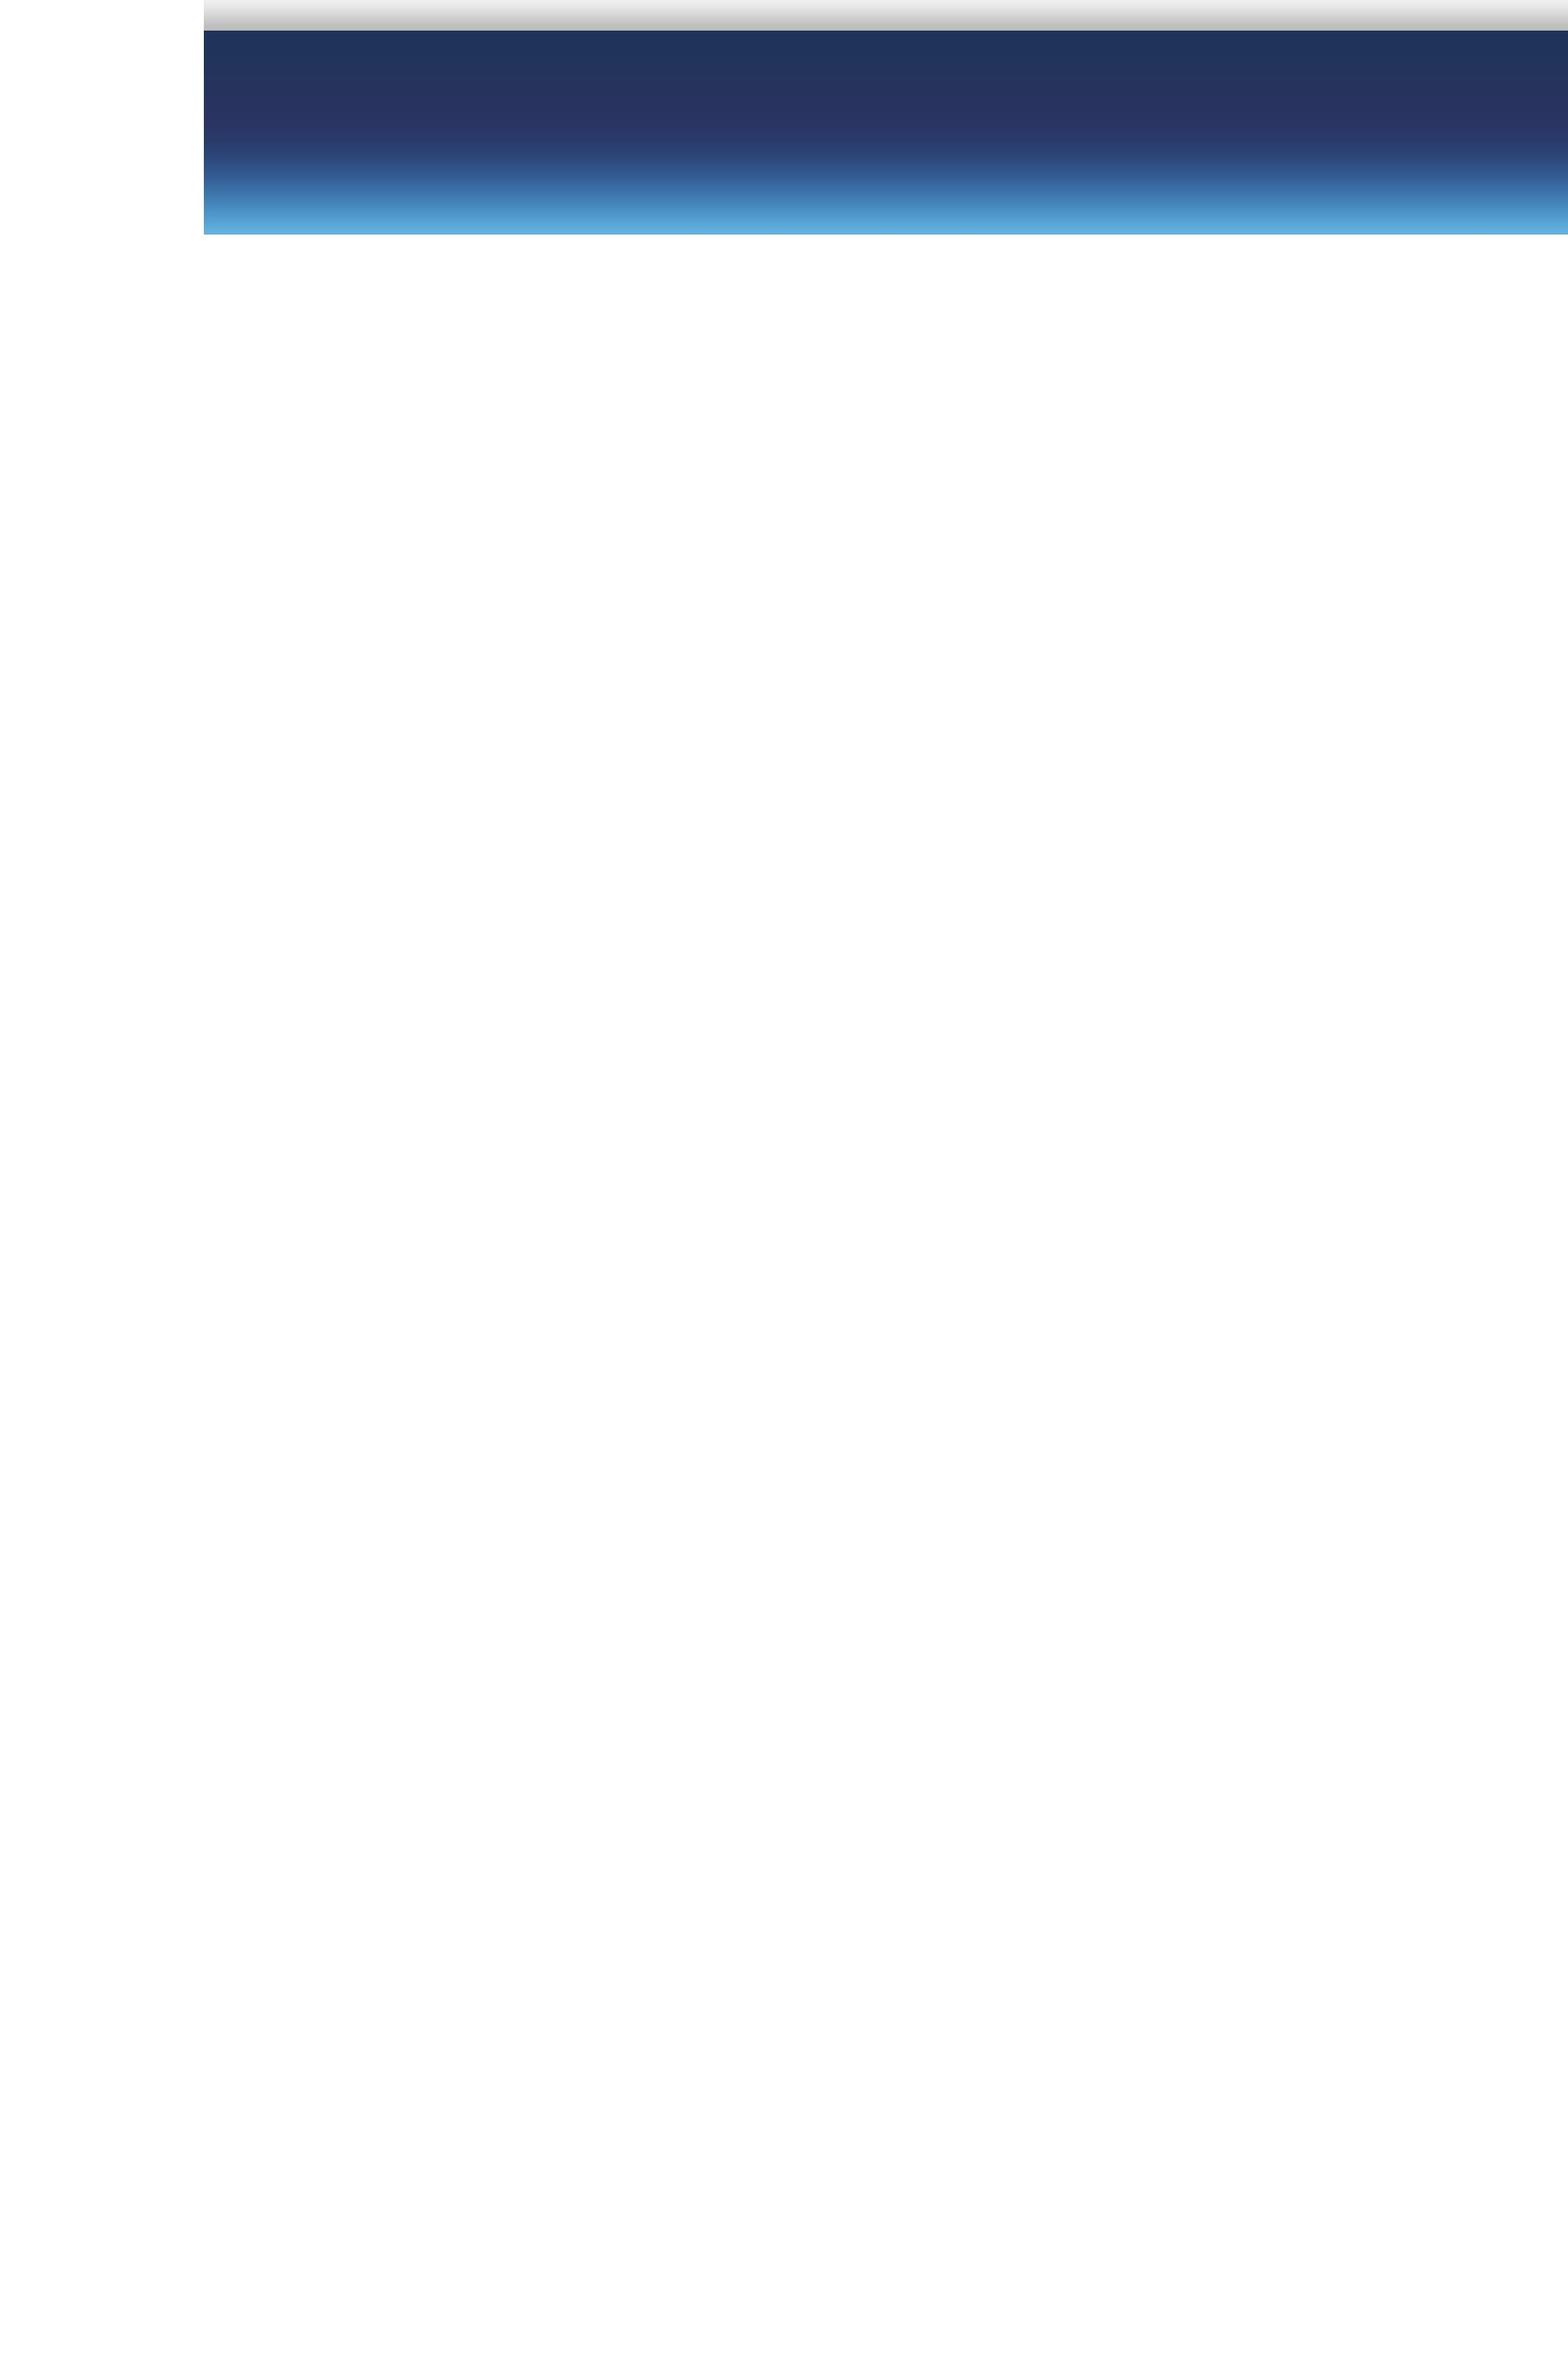
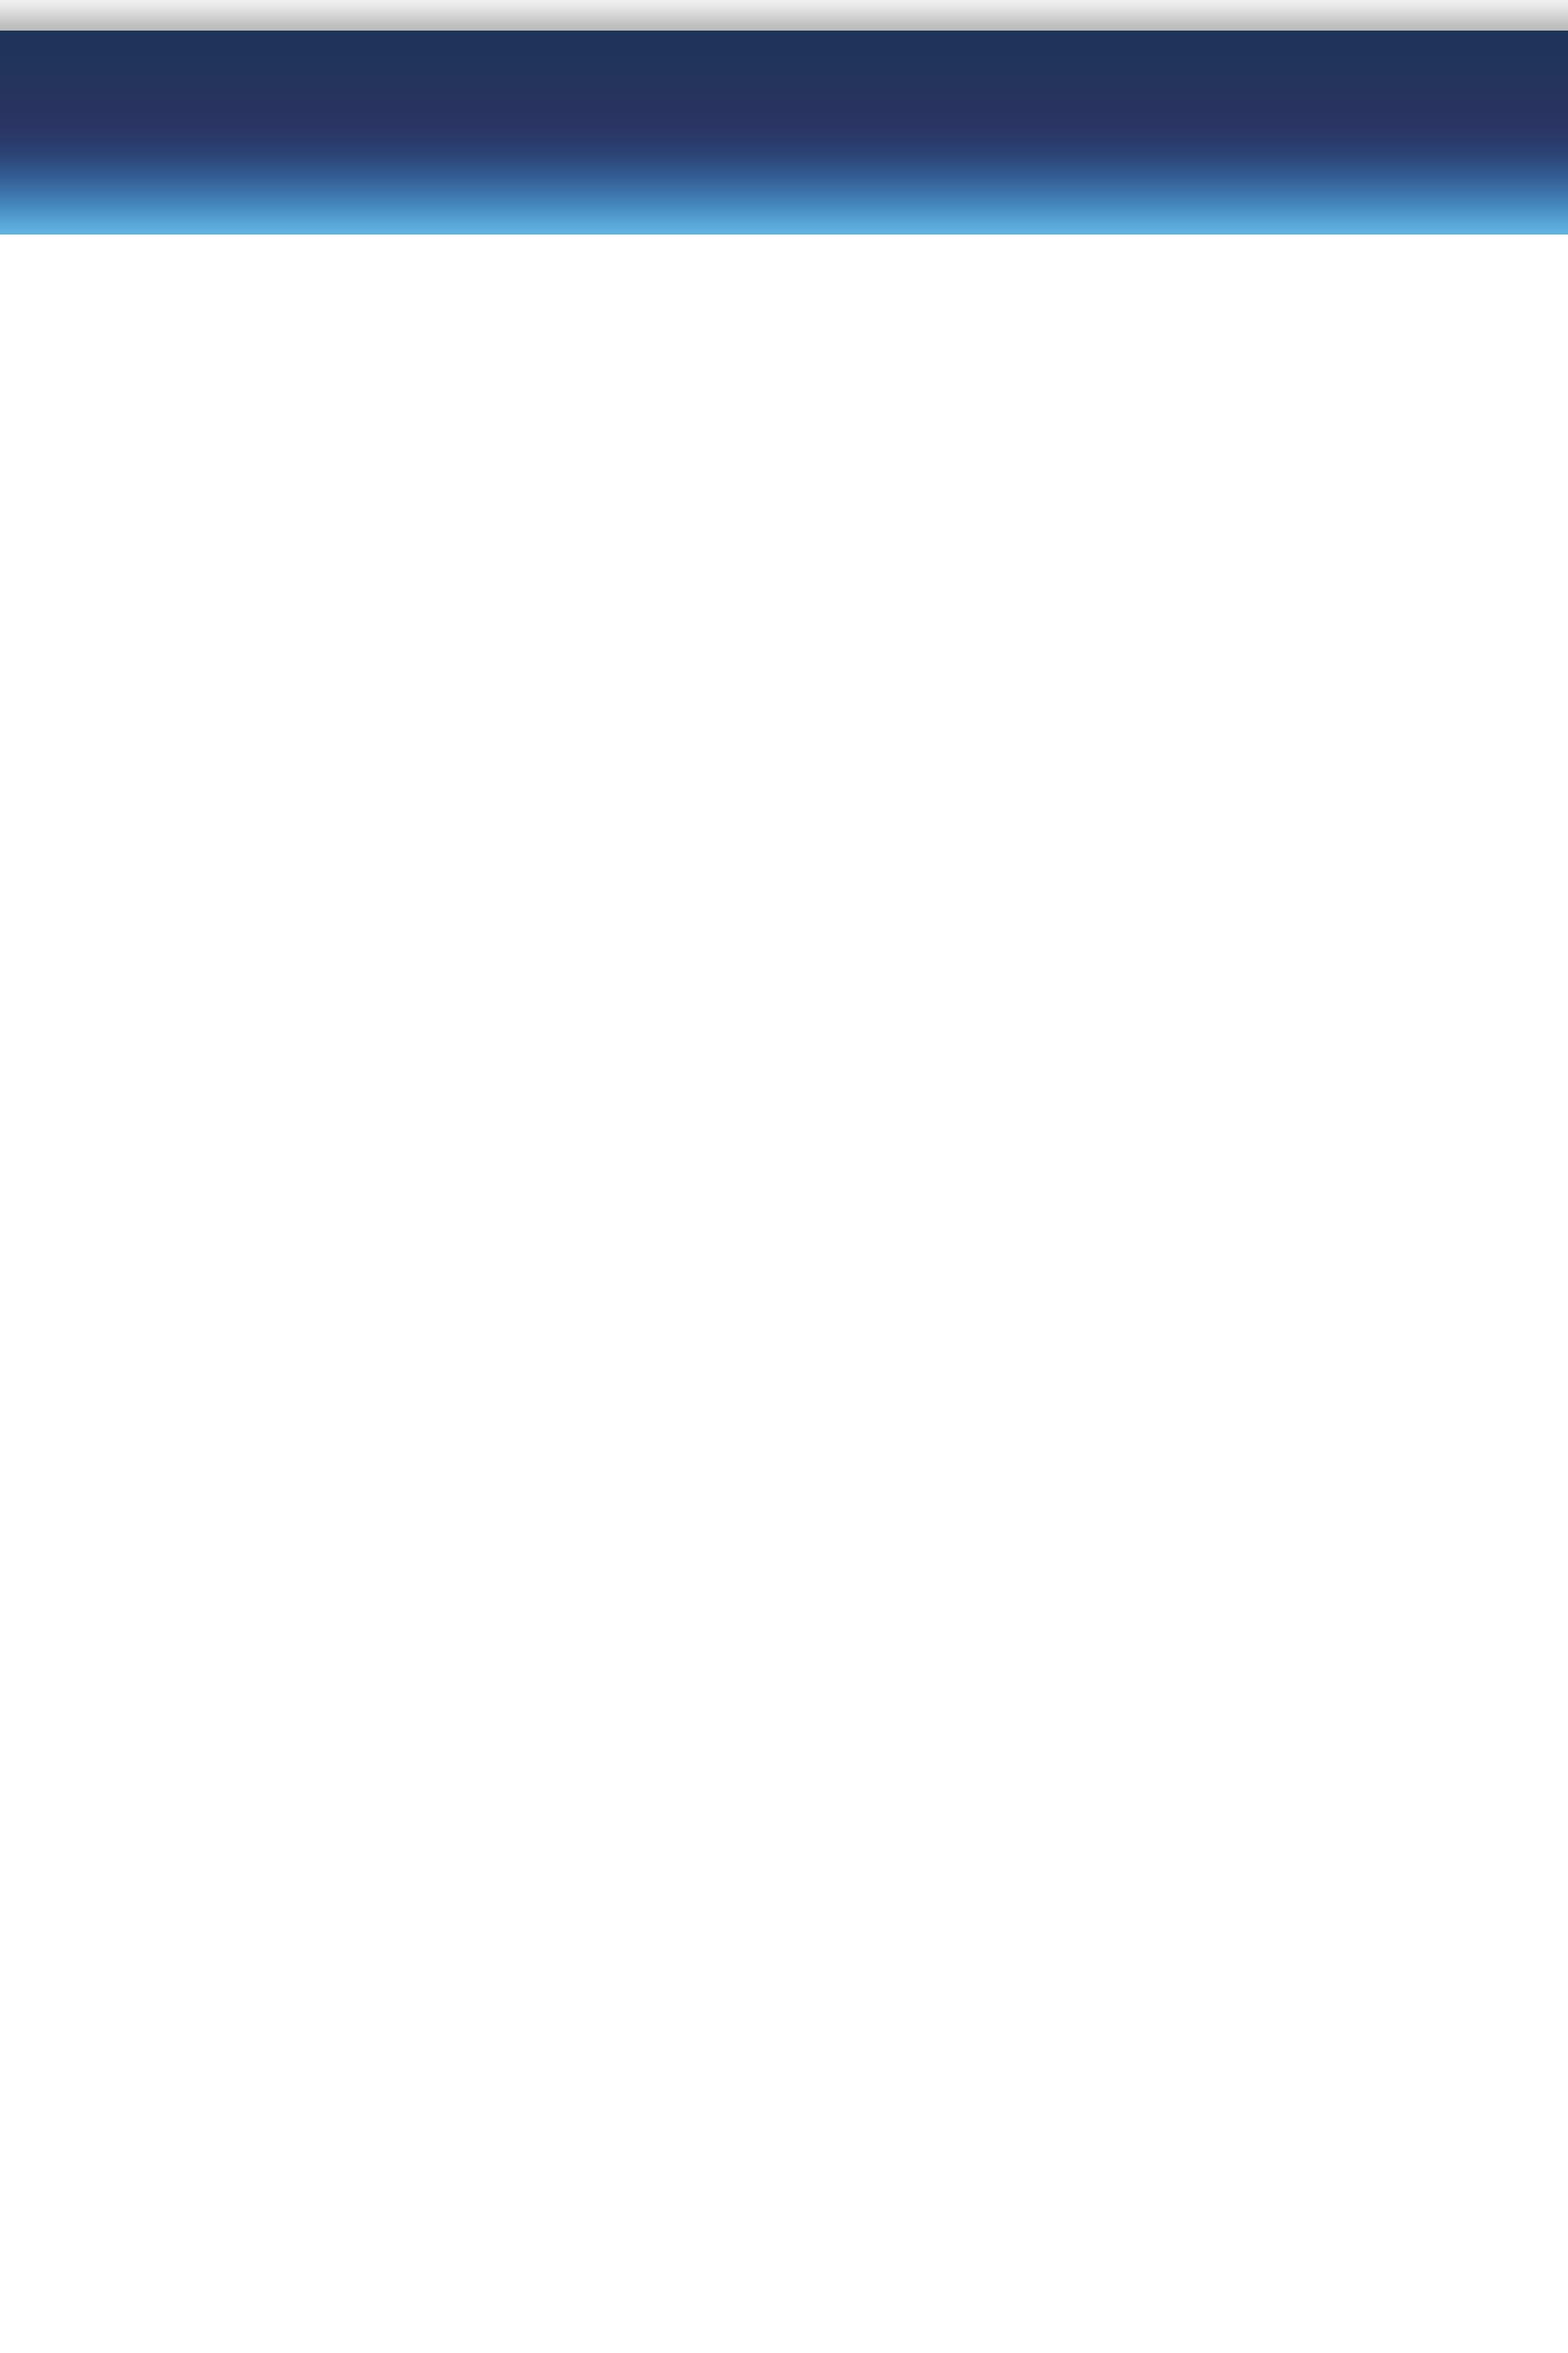
Marty zmiany

Changed region(s): [[0.0, 0.0, 0.155, 0.124]]

diff --git a/SMSCollect/Styles/Site.css b/SMSCollect/Styles/Site.css
@@ -3,7 +3,7 @@
 
 body   
 {
-    background: #b6b7bc;
+    background-image: url(gora.jpg); 
     font-size: .80em;
     font-family: "Helvetica Neue", "Lucida Grande", "Segoe UI", Arial, Helvetica, Verdana, sans-serif;
     color: #696969;

diff --git a/SMSCollect/Default.aspx.cs b/SMSCollect/Default.aspx.cs
@@ -21,6 +21,7 @@ public partial class _Default : System.Web.UI.Page
 
     protected void Page_Load(object sender, EventArgs e)
     {
+
         //wczytanie grup zajeciowych z bazy i umieszczenie ich w dropdownlist
         setListGroup("dziekanat");
 
@@ -33,30 +34,23 @@ public partial class _Default : System.Web.UI.Page
         name = (string)Session["NAME"];
         lastname = (string)Session["LASTNAME"];
 
-        lUser.Text = name + " " + lastname;
-
-        // poczatkowa strona z logowaniem
-	    // Get response.
-	    var response = base.Response;
-	    // Redirect temporarily.
-	    // ... Don't throw an HttpException to terminate.
-        response.Redirect("/SMSCollect/Account/Login.aspx", false);
+       // ((Label)LoginView1.FindControl("lUser")).Text = name + " " + lastname;
     }
 
     protected void Button2_Click(object sender, EventArgs e)
     {
-        int groupId = Convert.ToInt32(DropDownList1.SelectedValue);
+        int groupId = Convert.ToInt32(((DropDownList)LoginView1.FindControl("DropDownList1")).SelectedValue);
         
         string[] numbers = (string[])getNumbersByGroupId(groupId,"dziekanat").ToArray(typeof(string));
 
-        String message = TextBox1.Text;
+        String message = ((TextBox)LoginView1.FindControl("TextBox1")).Text;
         sendSMS(numbers, message);
 
         //dane z wysyłanej wiadomości
       
        // String login = LoginName1.FormatString;
         String login = name + "" + lastname;
-        String odbiorca = DropDownList1.SelectedItem.Text;
+        String odbiorca = ((DropDownList)LoginView1.FindControl("DropDownList1")).SelectedItem.Text;
         String date = DateTime.Today.ToString("yyyy-MM-dd");
         String time = DateTime.Now.ToString("HH:mm:ss");
 
@@ -69,7 +63,7 @@ public partial class _Default : System.Web.UI.Page
         c.ExecuteNonQuery();
 
         //zapisywanie wiadomości jako szablon
-        if (CheckBox2.Enabled == true)
+        if (((CheckBox)LoginView1.FindControl("CheckBox2")).Checked)
         {
             SqlCommand d = new SqlCommand("INSERT INTO szablony (tresc, imie, nazwisko) VALUES('" + message + "','" + name + "','" + lastname + "')", mySQLConnection);
             d.ExecuteNonQuery();
@@ -242,7 +236,9 @@ public partial class _Default : System.Web.UI.Page
 
     public void setListGroup(String login)
     {
-        if (DropDownList1.Items.Count <= 0)
+        DropDownList lista = ((DropDownList)LoginView1.FindControl("DropDownList1"));
+
+        if (lista != null && lista.Items.Count <= 0)
         {
             Hashtable weekDays = new Hashtable();
             weekDays[1] = "Poniedziałek";
@@ -256,13 +252,13 @@ public partial class _Default : System.Web.UI.Page
             foreach (KeyValuePair<int, ArrayList> entry in listGroupByDay)
             {
                 int day = Convert.ToInt32(entry.Key.ToString());
-                DropDownList1.Items.Add(new ListItem(weekDays[day].ToString(), "-" + entry.Key.ToString()));
+                ((DropDownList)LoginView1.FindControl("DropDownList1")).Items.Add(new ListItem(weekDays[day].ToString(), "-" + entry.Key.ToString()));
                 ArrayList array = (ArrayList)entry.Value;
                 foreach (SortedDictionary<int, string> item in array)
                 {
                     foreach (KeyValuePair<int, string> el in item)
                     {
-                        DropDownList1.Items.Add(new ListItem(el.Value.ToString(), el.Key.ToString()));
+                        ((DropDownList)LoginView1.FindControl("DropDownList1")).Items.Add(new ListItem(el.Value.ToString(), el.Key.ToString()));
                     }
                 }
             }
